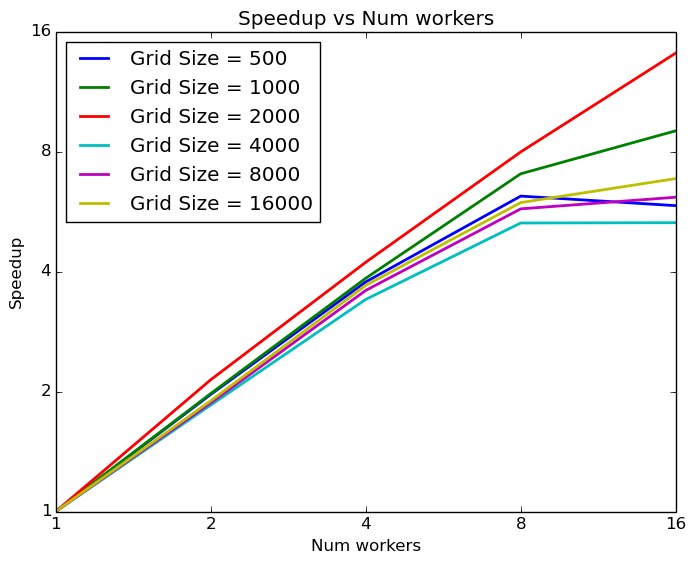
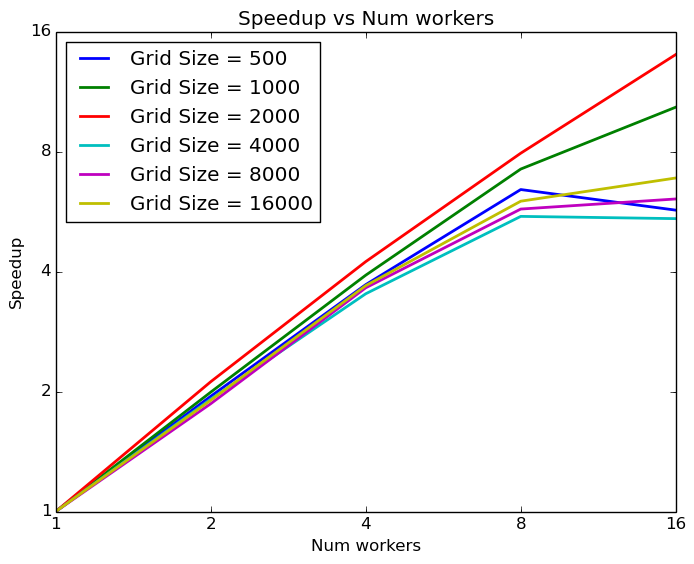
Graphs done with log scale

diff --git a/Lab3/eval_lab3.py b/Lab3/eval_lab3.py
@@ -35,7 +35,7 @@ for g_id, g in enumerate(grid_size, 0):
 plt.ylabel('Time in secs')
 plt.xlabel('Num workers')
 plt.xscale('log', basex=2)
-#plt.yscale('log', basey=2)
+plt.yscale('log', basey=2)
 
 xi = [2**n for n in range(0, len(num_jobs))]
 plt.xticks(num_jobs, xi)
